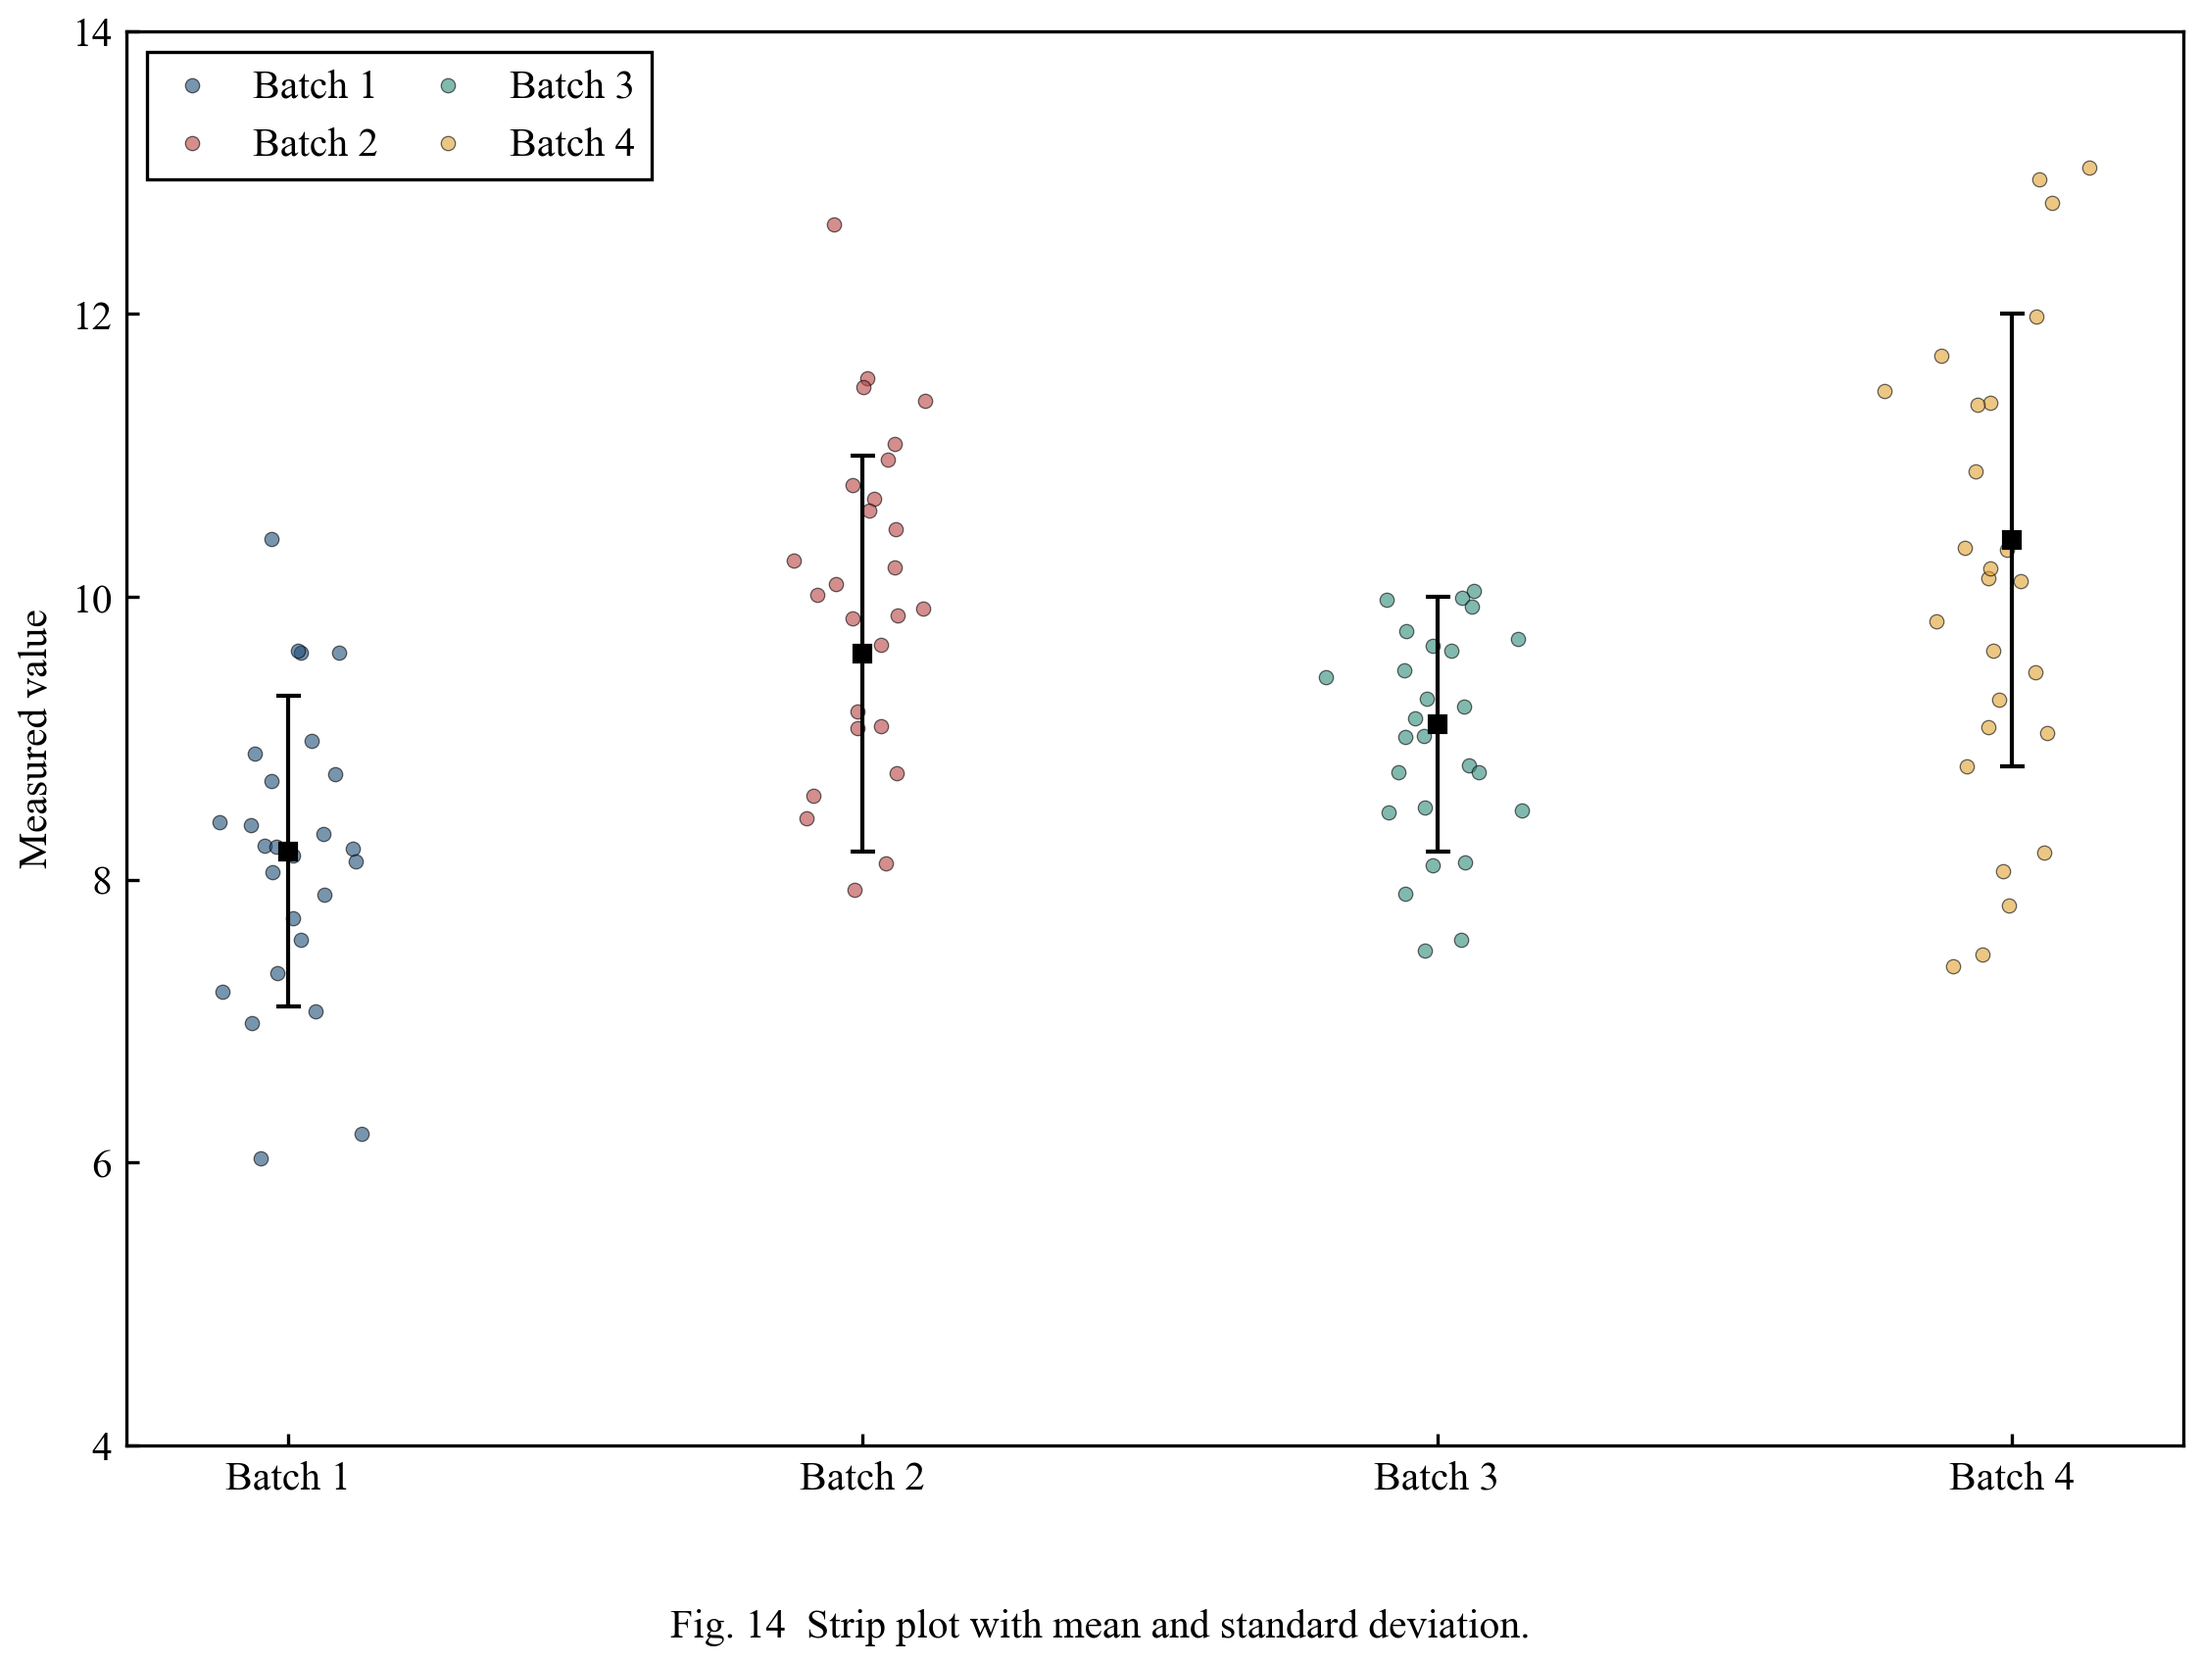
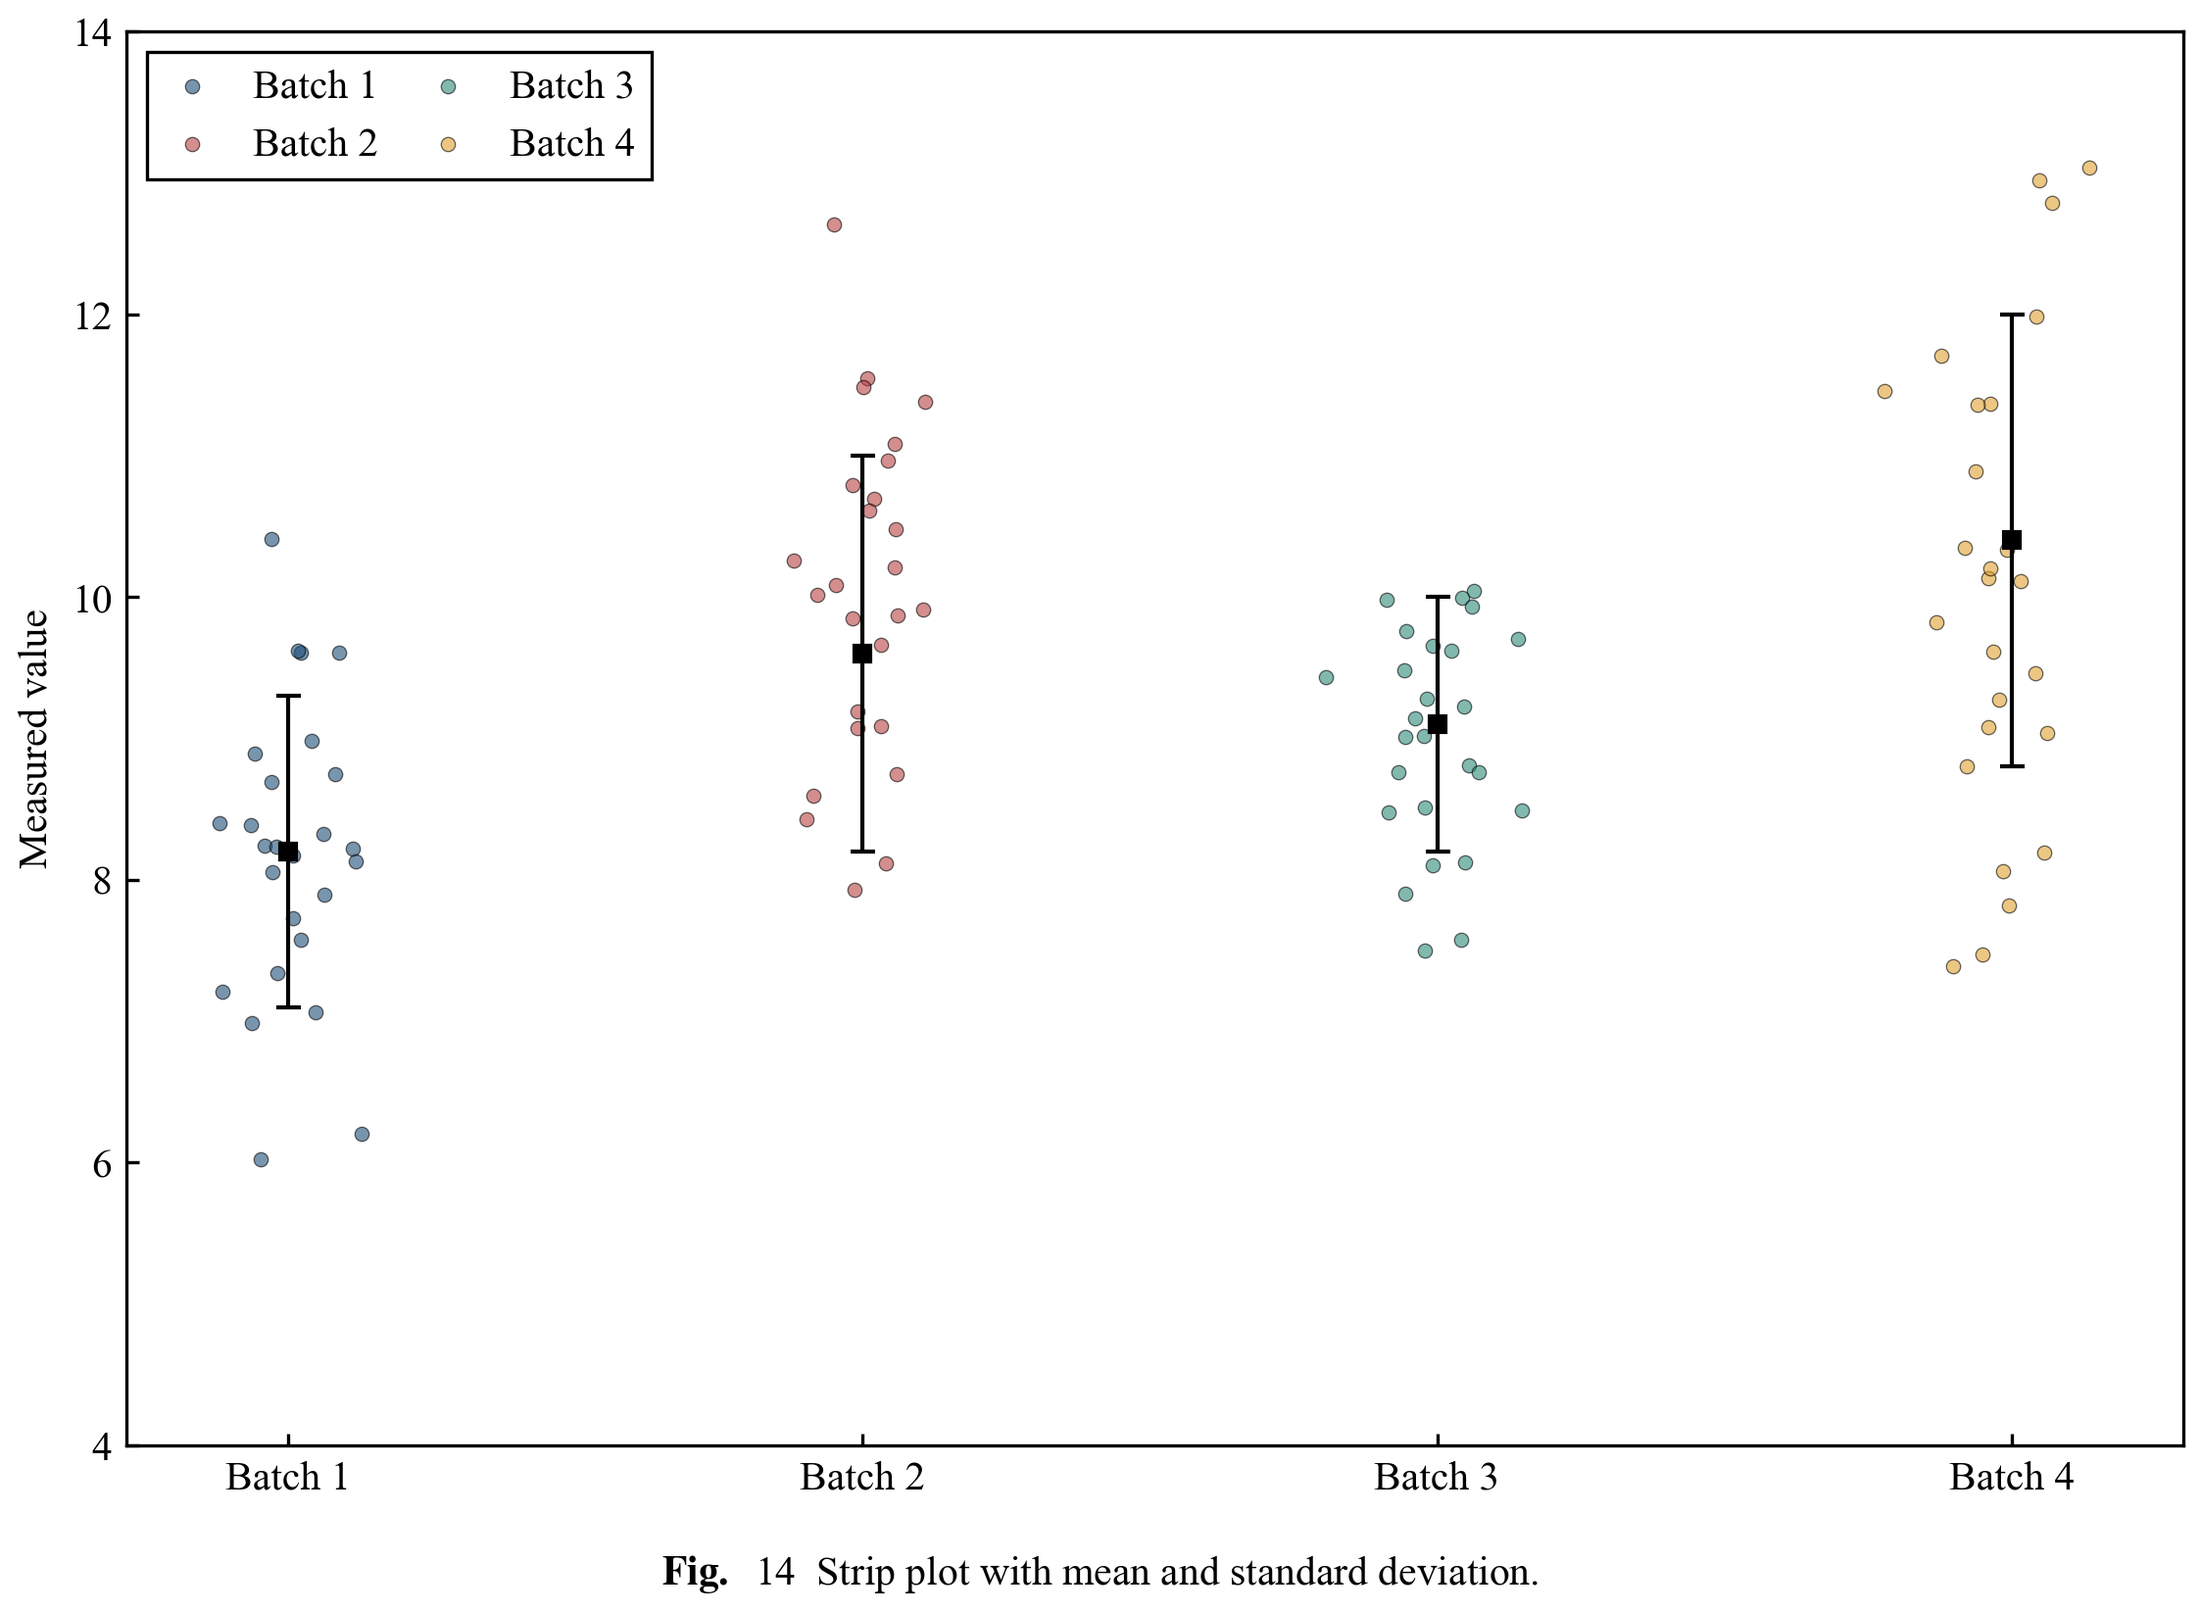
Caption style: Fig. N (no zero pad), bold 'Fig.', tucked under the grid
- every gallery figure caption is now add_caption_below with a mathtext bold
  'Fig.' label and an unpadded number ('Fig. 1' not 'Fig. 01')
- prepare_figure re-places a caption-below-the-grid at the final canvas size for
  ALL figures, not just centred ones, so the 14 pt gap survives the width
  calibration
- desktop demo figures use the same caption style
- measured gap below the grid: 13.5-14.2 pt across grouped_bar, boxplot, heatmap
  and multi_panel; the check still passes (fonts times.ttf, 10 pt)

diff --git a/examples/gallery.py b/examples/gallery.py
@@ -82,7 +82,7 @@ def fig_grouped_bar():
     ax.set_ylabel("Accuracy")
     ax.set_ylim(0, 1.55)
     framed_legend(ax, loc="upper left")
-    add_caption(fig, "Fig. 01  Grouped bars with error bars across four scenarios.")
+    add_caption_below(fig, r"$\mathbf{Fig.}$  1  Grouped bars with error bars across four scenarios.")
     return fig
 
 
@@ -108,7 +108,7 @@ def fig_stacked_bar():
     ax.set_ylabel("Mass fraction (%)")
     ax.set_ylim(0, 118)
     framed_legend(ax, loc="upper left", ncol=3, columnspacing=1.0, handlelength=1.4)
-    add_caption(fig, "Fig. 02  Stacked bars of mixture composition by year.")
+    add_caption_below(fig, r"$\mathbf{Fig.}$  2  Stacked bars of mixture composition by year.")
     return fig
 
 
@@ -131,7 +131,7 @@ def fig_horizontal_bar():
     ax.set_yticklabels(names)
     ax.set_xlabel("Strength retention (%)")
     ax.set_xlim(0, 100)
-    add_caption(fig, "Fig. 03  Horizontal bars sorted by strength retention.")
+    add_caption_below(fig, r"$\mathbf{Fig.}$  3  Horizontal bars sorted by strength retention.")
     return fig
 
 
@@ -155,7 +155,7 @@ def fig_line_trend():
     ax.set_ylabel("Score")
     framed_legend(ax, loc="upper left", ncol=2, columnspacing=1.0,
                   handlelength=1.6, handletextpad=0.5)
-    add_caption(fig, "Fig. 04  Multi-series trend lines with markers.")
+    add_caption_below(fig, r"$\mathbf{Fig.}$  4  Multi-series trend lines with markers.")
     return fig
 
 
@@ -177,7 +177,7 @@ def fig_line_band():
     ax.set_xlabel("Time (s)")
     ax.set_ylabel("Response (mV)")
     framed_legend(ax, loc="upper left")
-    add_caption(fig, "Fig. 05  Trend lines with uncertainty bands.")
+    add_caption_below(fig, r"$\mathbf{Fig.}$  5  Trend lines with uncertainty bands.")
     return fig
 
 
@@ -197,7 +197,7 @@ def fig_stacked_area():
     ax.set_ylabel("Cumulative release (%)")
     ax.set_xlim(0, 10)
     framed_legend(ax, loc="upper left", ncol=2, columnspacing=1.0, handlelength=1.4)
-    add_caption(fig, "Fig. 06  Stacked area chart of cumulative release.")
+    add_caption_below(fig, r"$\mathbf{Fig.}$  6  Stacked area chart of cumulative release.")
     return fig
 
 
@@ -223,7 +223,7 @@ def fig_scatter_fit():
     ax.set_xlabel("Measured")
     ax.set_ylabel("Predicted")
     framed_legend(ax, loc="upper left")
-    add_caption(fig, "Fig. 07  Scatter plot with least-squares fits.")
+    add_caption_below(fig, r"$\mathbf{Fig.}$  7  Scatter plot with least-squares fits.")
     return fig
 
 
@@ -244,7 +244,7 @@ def fig_bubble():
     ax.set_xlabel("Dosage (mg)")
     ax.set_ylabel("Response")
     framed_legend(ax, loc="upper left")
-    add_caption(fig, "Fig. 08  Bubble chart with size- and colour-encoded groups.")
+    add_caption_below(fig, r"$\mathbf{Fig.}$  8  Bubble chart with size- and colour-encoded groups.")
     return fig
 
 
@@ -266,7 +266,7 @@ def fig_errorbar():
     ax.set_xlabel("Strain (%)")
     ax.set_ylabel("Stress (MPa)")
     framed_legend(ax, loc="lower right")
-    add_caption(fig, "Fig. 09  Error bars in both x and y directions.")
+    add_caption_below(fig, r"$\mathbf{Fig.}$  9  Error bars in both x and y directions.")
     return fig
 
 
@@ -296,7 +296,7 @@ def fig_boxplot():
     framed_legend(ax, handles=[Patch(facecolor=P[k], edgecolor="black",
                                      linewidth=0.8, label=l)
                                for k, l in zip(keys, labels)], loc="upper left")
-    add_caption(fig, "Fig. 10  Box plots of four groups.", fontsize=WXL_FONTSIZE["caption"])
+    add_caption_below(fig, r"$\mathbf{Fig.}$  10  Box plots of four groups.")
     return fig
 
 
@@ -324,7 +324,7 @@ def fig_violin():
     framed_legend(ax, handles=[Patch(facecolor=P[k], edgecolor="black",
                                      linewidth=0.8, label=l)
                                for k, l in zip(keys, labels)], loc="upper left")
-    add_caption(fig, "Fig. 11  Violin plots with mean markers.")
+    add_caption_below(fig, r"$\mathbf{Fig.}$  11  Violin plots with mean markers.")
     return fig
 
 
@@ -345,7 +345,7 @@ def fig_hist_kde():
     ax.set_xlabel("Residual (mm)")
     ax.set_ylabel("Density")
     framed_legend(ax, loc="upper right")
-    add_caption(fig, "Fig. 12  Histogram with kernel density estimate.")
+    add_caption_below(fig, r"$\mathbf{Fig.}$  12  Histogram with kernel density estimate.")
     return fig
 
 
@@ -365,7 +365,7 @@ def fig_ecdf():
     ax.set_ylabel("Cumulative probability")
     ax.set_ylim(0, 1.02)
     framed_legend(ax, loc="upper left")
-    add_caption(fig, "Fig. 13  Empirical cumulative distribution functions.")
+    add_caption_below(fig, r"$\mathbf{Fig.}$  13  Empirical cumulative distribution functions.")
     return fig
 
 
@@ -391,7 +391,7 @@ def fig_strip_mean():
     ax.set_xticklabels(labels)
     ax.set_ylabel("Measured value")
     framed_legend(ax, loc="upper left", ncol=2, columnspacing=1.0, handlelength=1.4)
-    add_caption(fig, "Fig. 14  Strip plot with mean and standard deviation.")
+    add_caption_below(fig, r"$\mathbf{Fig.}$  14  Strip plot with mean and standard deviation.")
     return fig
 
 
@@ -420,7 +420,7 @@ def fig_heatmap():
     cb.set_label("Correlation")
     cb.ax.tick_params(direction="in", width=0.8)
     cb.outline.set_linewidth(0.8)
-    add_caption(fig, "Fig. 15  Correlation heatmap with annotated values.")
+    add_caption_below(fig, r"$\mathbf{Fig.}$  15  Correlation heatmap with annotated values.")
     return fig
 
 
@@ -441,7 +441,7 @@ def fig_contour():
     cb.set_label("Normalised intensity")
     cb.ax.tick_params(direction="in", width=0.8)
     cb.outline.set_linewidth(0.8)
-    add_caption(fig, "Fig. 16  Filled contour map of a two-dimensional field.")
+    add_caption_below(fig, r"$\mathbf{Fig.}$  16  Filled contour map of a two-dimensional field.")
     return fig
 
 
@@ -473,7 +473,7 @@ def fig_radar():
     ax.grid(True, color=P["neutral"], alpha=0.35, linewidth=0.6)
     ax.tick_params(direction="in")
     framed_legend(ax, loc="lower right", bbox_to_anchor=(1.16, -0.08))
-    add_caption(fig, "Fig. 17  Radar chart of five performance indices.")
+    add_caption_below(fig, r"$\mathbf{Fig.}$  17  Radar chart of five performance indices.")
     return fig
 
 
@@ -495,7 +495,7 @@ def fig_donut():
                                      linewidth=0.8, label=f"{l} ({v}%)")
                                for k, l, v in zip(keys, labels, vals)],
                   loc="center left", bbox_to_anchor=(0.92, 0.5))
-    add_caption(fig, "Fig. 18  Donut chart of mixture proportions.")
+    add_caption_below(fig, r"$\mathbf{Fig.}$  18  Donut chart of mixture proportions.")
     return fig
 
 
@@ -529,7 +529,7 @@ def fig_dual_axis():
     h1, l1 = ax.get_legend_handles_labels()
     h2, l2 = ax2.get_legend_handles_labels()
     framed_legend(ax, handles=h1 + h2, labels=l1 + l2, loc="upper left")
-    add_caption(fig, "Fig. 19  Dual-axis chart with bars and a line series.")
+    add_caption_below(fig, r"$\mathbf{Fig.}$  19  Dual-axis chart with bars and a line series.")
     return fig
 
 
@@ -539,7 +539,7 @@ def fig_dual_axis():
         'fig, axes = create_subplots(2, 2, figsize=WXL_FIGSIZE["double_tall"])\n'
         'panel_tag(axes[0], "(a)", "Grouped bars")\n'
         'center_grid(fig)          # centre the grid horizontally and vertically\n'
-        'add_caption(fig, "Fig. 20  Multi-panel figure.")', width="double_tall")
+        'add_caption_below(fig, r"$\mathbf{Fig.}$  20  Multi-panel figure.")', width="double_tall")
 def fig_multi_panel():
     fig, axes = create_subplots(2, 2, figsize=WXL_FIGSIZE["double_tall"])
     fig._wxl_no_tight = True      # keep the manual centering
@@ -596,7 +596,7 @@ def fig_multi_panel():
     framed_legend(ax, loc="upper left")
     panel_tag(ax, "(d)", "Scatter")
 
-    add_caption_below(fig, "Fig. 20  Multi-panel figure with four chart types.")
+    add_caption_below(fig, r"$\mathbf{Fig.}$  20  Multi-panel figure with four chart types.")
     return fig
 
 

diff --git a/assets/wxl_style.py b/assets/wxl_style.py
@@ -632,9 +632,11 @@ def prepare_figure(fig, lock_ends: bool = True, auto_legend: bool = True,
         center = bool(getattr(fig, "_wxl_center", False))
     if center:
         center_grid(fig)
-        caption = getattr(fig, "_wxl_caption", None)
-        if caption is not None:
-            _caption_below(fig, caption[0], caption[1], caption[2])
+    # re-place a caption-below-the-grid at the current canvas size, so it stays
+    # a fixed 14 pt under the grid even after the width calibration resized it
+    caption = getattr(fig, "_wxl_caption", None)
+    if caption is not None:
+        _caption_below(fig, caption[0], caption[1], caption[2])
     return fig
 
 
